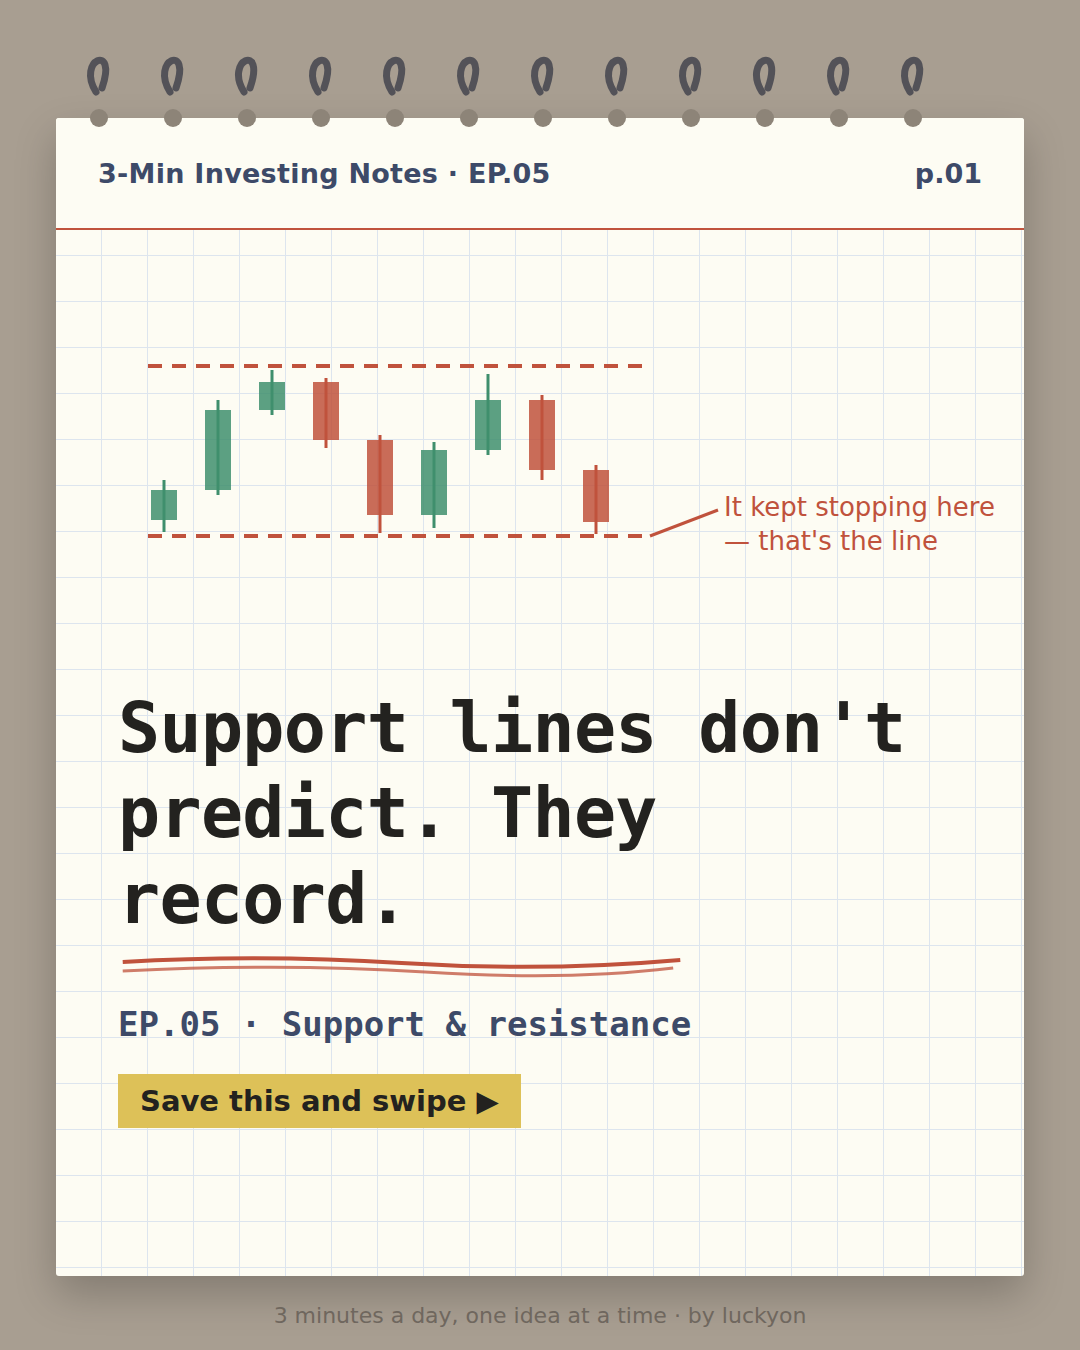
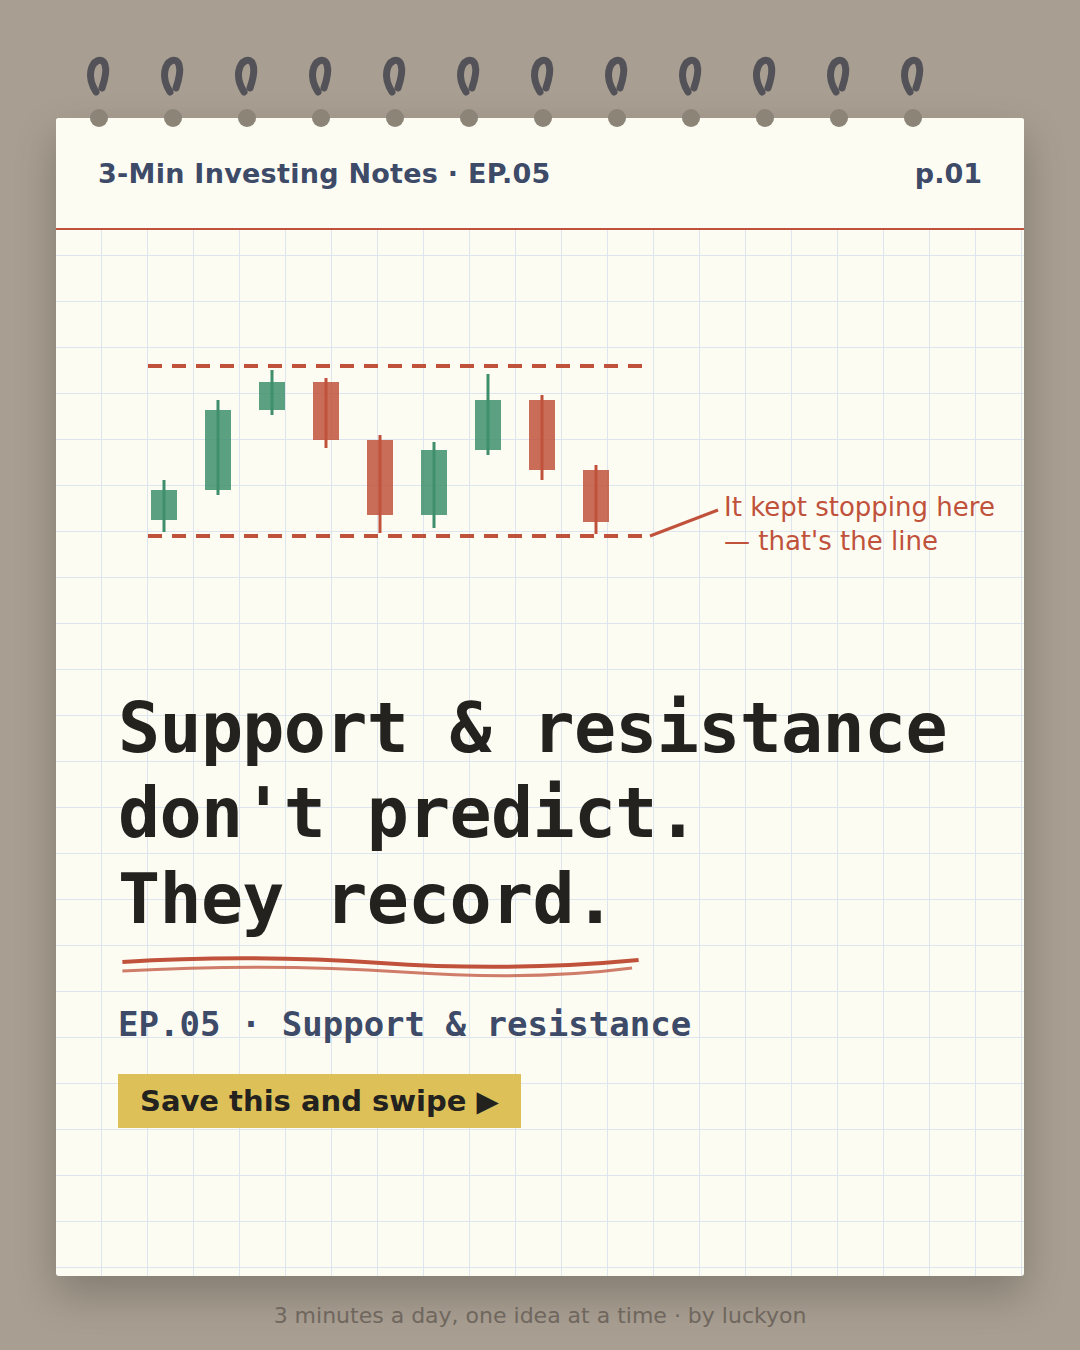
chart-notes: EP.05 표지 제목이 두 개념을 다 담게 (이슈 #25 후속)
표지 훅이 «지지선은 예언이 아니라 기록입니다»로 지지선만 부르고 있었다.
이 회차는 저항선도 같은 비중으로 다루고 부제·본문·요약이 전부 두 개념을
함께 말하는데 표지만 절반이었다 — 피드에서 표지 한 장만 보고 지나가는
독자에게는 그게 이 회차의 제목이 된다.

  ko: 지지선과 저항선은 / 예언이 아니라 / «기록»입니다  (3줄)
  en: Support & resistance / don't predict. / They record.  (3줄)

두 언어 모두 렌더 확인 — 넘침·겹침 없음. 표지 주석과 캔들 그림은 그대로다.
alt_ko[0]·alt_en[0] 의 제목 인용도 함께 고쳤다.

diff --git a/cards/chart-notes/2026-08-30-ep05/preview.html b/cards/chart-notes/2026-08-30-ep05/preview.html
@@ -62,8 +62,8 @@
     <h2>🇰🇷 한국어 — 8장</h2>
     <div class="cards">
     <figure>
-      <img src="ko/card1.png" alt="표지. 크림색 모눈 노트 위에 캔들 아홉 개가 위아래 두 개의 붉은 점선 사이를 오간다. 아래 점선을 가리키며 '여기서 자꾸 멈췄다 — 그 자리를 이은 선'이라는 주석이 붙어 있다. 큰 제목 '지지선은 예언이 아니라 기록입니다', 부제 'EP.05 · 지지선과 저항선', 노란 형광펜 칩 '저장하고 넘겨보세요'." loading="lazy">
-      <figcaption><b>p.01</b> 표지. 크림색 모눈 노트 위에 캔들 아홉 개가 위아래 두 개의 붉은 점선 사이를 오간다. 아래 점선을 가리키며 '여기서 자꾸 멈췄다 — 그 자리를 이은 선'이라는 주석이 붙어 있다. 큰 제목 '지지선은 예언이 아니라 기록입니다', 부제 'EP.05 · 지지선과 저항선', 노란 형광펜 칩 '저장하고 넘겨보세요'.</figcaption>
+      <img src="ko/card1.png" alt="표지. 크림색 모눈 노트 위에 캔들 아홉 개가 위아래 두 개의 붉은 점선 사이를 오간다. 아래 점선을 가리키며 '여기서 자꾸 멈췄다 — 그 자리를 이은 선'이라는 주석이 붙어 있다. 큰 제목 '지지선과 저항선은 예언이 아니라 «기록»입니다', 부제 'EP.05 · 지지선과 저항선', 노란 형광펜 칩 '저장하고 넘겨보세요'." loading="lazy">
+      <figcaption><b>p.01</b> 표지. 크림색 모눈 노트 위에 캔들 아홉 개가 위아래 두 개의 붉은 점선 사이를 오간다. 아래 점선을 가리키며 '여기서 자꾸 멈췄다 — 그 자리를 이은 선'이라는 주석이 붙어 있다. 큰 제목 '지지선과 저항선은 예언이 아니라 «기록»입니다', 부제 'EP.05 · 지지선과 저항선', 노란 형광펜 칩 '저장하고 넘겨보세요'.</figcaption>
     </figure>
     <figure>
       <img src="ko/card2.png" alt="도입 카드. 제목 '차트에 가로선을 그어 놓은 그림, 보신 적 있나요?' 아래에 '누가 왜 거기에 그었는지 모르면 차트는 계속 남의 그림으로 남는다'는 본문이 있다. 그림은 회색 꺾은선 위에 붉은 점선 가로줄 두 개가 그어져 있고, 두 점선이 끝나는 오른쪽 바깥에 붉은 물음표 세 개가 찍혀 «이 선들이 무엇이냐»고 묻는다. 맨 아래 '이번 편에서 그 선이 어떻게 그어지는지 봅니다'." loading="lazy">
@@ -99,8 +99,8 @@
     <h2>🇺🇸 English — 8장</h2>
     <div class="cards">
     <figure>
-      <img src="en/card1.png" alt="Cover. On cream grid paper, nine candlesticks travel between two red dashed horizontal lines. An annotation points at the lower line: 'It kept stopping here — that's the line'. Headline 'Support lines don't predict. They record.', subtitle 'EP.05 · Support &amp; resistance', yellow highlighter chip 'Save this and swipe'." loading="lazy">
-      <figcaption><b>p.01</b> Cover. On cream grid paper, nine candlesticks travel between two red dashed horizontal lines. An annotation points at the lower line: 'It kept stopping here — that's the line'. Headline 'Support lines don't predict. They record.', subtitle 'EP.05 · Support &amp; resistance', yellow highlighter chip 'Save this and swipe'.</figcaption>
+      <img src="en/card1.png" alt="Cover. On cream grid paper, nine candlesticks travel between two red dashed horizontal lines. An annotation points at the lower line: 'It kept stopping here — that's the line'. Headline 'Support &amp; resistance don't predict. They record.', subtitle 'EP.05 · Support &amp; resistance', yellow highlighter chip 'Save this and swipe'." loading="lazy">
+      <figcaption><b>p.01</b> Cover. On cream grid paper, nine candlesticks travel between two red dashed horizontal lines. An annotation points at the lower line: 'It kept stopping here — that's the line'. Headline 'Support &amp; resistance don't predict. They record.', subtitle 'EP.05 · Support &amp; resistance', yellow highlighter chip 'Save this and swipe'.</figcaption>
     </figure>
     <figure>
       <img src="en/card2.png" alt="Intro card. Headline 'Seen a chart with flat lines drawn across it?' with body text explaining that if you can't tell where someone else's line came from, the chart stays their picture. The sketch shows a grey zigzag price line with two red dashed horizontal lines drawn across it, and three red question marks sitting just beyond where those dashed lines end, asking what the lines are. Footer line: 'You'll see exactly how that line gets drawn'." loading="lazy">
